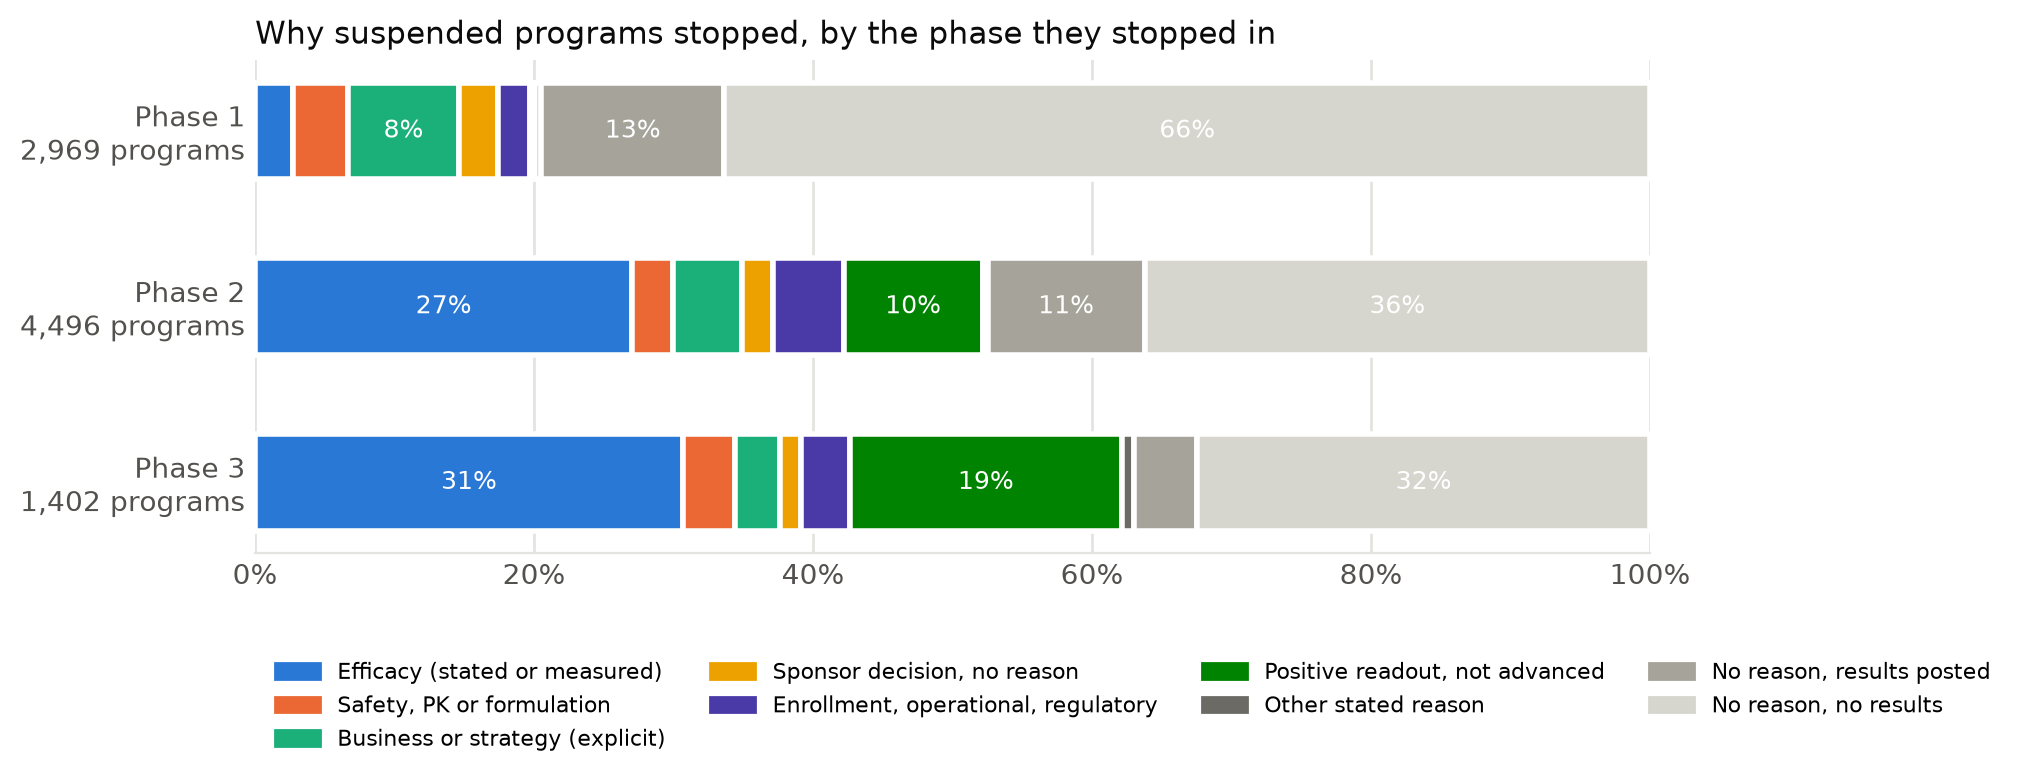
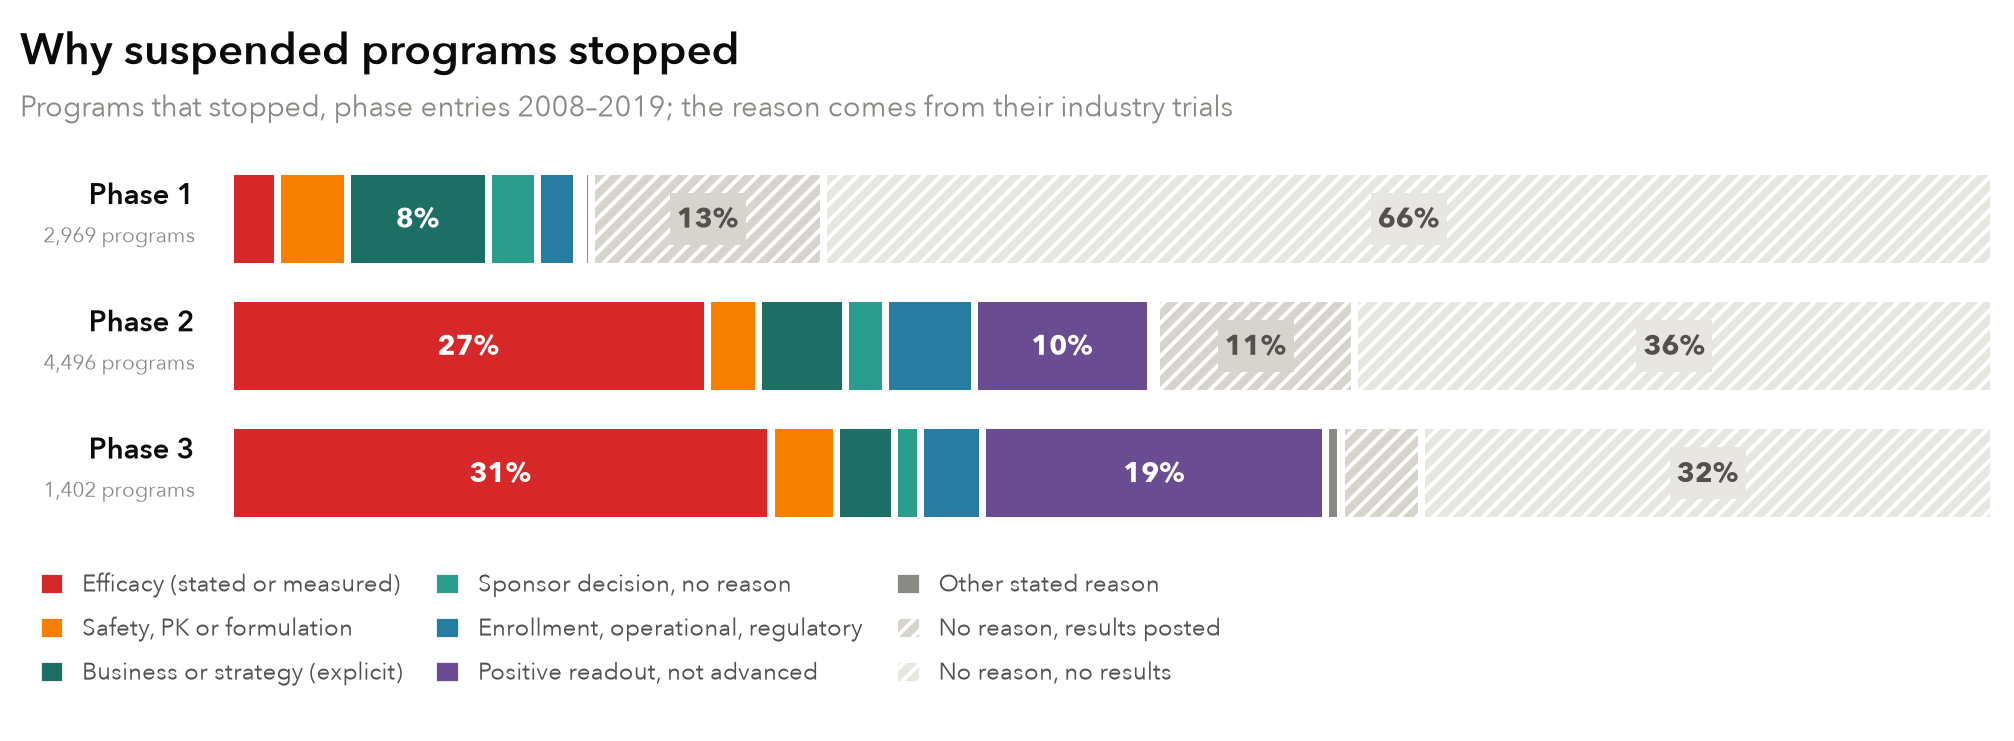
Restyle the suspended-programs figure to match the efficacy-attribution figure
Title drops "by the phase they stopped in"; bold title and subtitle, gapped
bars with phase and program-count labels, cause hues shared with the stop-cause
bar, and unstated reasons hatched.

diff --git a/report/figures.py b/report/figures.py
@@ -22,18 +22,13 @@ from report import bio, frame
 from report.render import S3_ENDPOINTS, S3_MAP_ROWS, band_label, s3_types, stratum_name
 from report.attribution import SUBCAUSE_LABELS
 from report.stop_causes import BREAKDOWN, SHOWN, SUBCAUSE_NAMES
+from report.windows import SECTION1
 
 OUT = os.path.join(frame.REPO, "report", "output")
 FIG = os.path.join(OUT, "figures")
 
 INK, INK2, MUTED = "#0b0b0b", "#52514e", "#8a8984"
 GRID, BAR, ACCENT = "#e4e3df", "#c3c2b7", "#2a78d6"
-FAMILY_COLORS = {  # reference categorical order; each family keeps its hue in every panel
-    "Efficacy (stated or measured)": "#2a78d6", "Safety, PK or formulation": "#eb6834",
-    "Business or strategy (explicit)": "#1baf7a", "Sponsor decision, no reason": "#eda100",
-    "Enrollment, operational, regulatory": "#4a3aa7", "Positive readout, not advanced": "#008300",
-    "Other stated reason": "#6b6a65", "No reason, results posted": "#a5a39a", "No reason, no results": "#d6d5ce",
-}
 REASON_FAMILY = {
     "efficacy: stated": "Efficacy (stated or measured)",
     "efficacy: primary endpoint not met": "Efficacy (stated or measured)",
@@ -63,31 +58,6 @@ def save(fig, name):
     for ext in ("png", "svg"):
         fig.savefig(os.path.join(FIG, f"{name}.{ext}"), dpi=200, bbox_inches="tight")
     plt.close(fig)
-
-
-def failure_modes():
-    progs = pd.read_csv(os.path.join(OUT, "section1", "failure_modes_programs.csv"))
-    progs["family"] = progs.reason.map(REASON_FAMILY)
-    tab = progs.pivot_table(index="phase", columns="family", values="program_id", aggfunc="count", fill_value=0)
-    share = tab.div(tab.sum(axis=1), axis=0)
-    fig, ax = plt.subplots(figsize=(9, 3.2))
-    for i, ph in enumerate(sorted(share.index, reverse=True)):
-        left = 0.0
-        for fam, color in FAMILY_COLORS.items():
-            w = share.at[ph, fam] if fam in share.columns else 0.0
-            ax.barh(i, w, left=left, height=0.55, color=color, edgecolor="white", linewidth=2)
-            if w >= 0.07:
-                ax.text(left + w / 2, i, f"{w:.0%}", ha="center", va="center", color="white", fontsize=9)
-            left += w
-    ax.set_yticks(range(len(share)), [f"Phase {ph}\n{int(tab.loc[ph].sum()):,} programs"
-                                     for ph in sorted(share.index, reverse=True)], color=INK)
-    ax.set_xlim(0, 1)
-    ax.xaxis.set_major_formatter(matplotlib.ticker.PercentFormatter(1.0))
-    style(ax)
-    ax.legend(handles=[matplotlib.patches.Patch(color=c, label=f) for f, c in FAMILY_COLORS.items()],
-              ncol=4, frameon=False, fontsize=8, loc="upper left", bbox_to_anchor=(0, -0.18))
-    ax.set_title("Why suspended programs stopped, by the phase they stopped in", loc="left", color=INK, fontsize=11)
-    save(fig, "failure_modes_by_phase")
 
 
 EFFICACY = "#d62828"
@@ -120,6 +90,51 @@ def stacked(ax, y, segments, height=0.62, gap=0.004):
                     color="white" if dark(color) else INK2,
                     bbox=dict(boxstyle="square,pad=0.25", fc=color, ec="none") if hatched else None)
         start += w
+
+
+FAMILY_COLORS = {  # stacking order; hues follow SHOWN_COLORS so a cause looks the same in every stop figure
+    "Efficacy (stated or measured)": EFFICACY, "Safety, PK or formulation": "#f77f00",
+    "Business or strategy (explicit)": "#1d6f66", "Sponsor decision, no reason": "#2a9d8f",
+    "Enrollment, operational, regulatory": "#277da1", "Positive readout, not advanced": "#6a4c93",
+    "Other stated reason": "#8a8984", "No reason, results posted": "#d6d4cc", "No reason, no results": "#e8e6e0",
+}
+UNSTATED = {"No reason, results posted", "No reason, no results"}
+
+
+def failure_modes():
+    """Why suspended programs stopped: one 100% bar per phase, unstated reasons hatched."""
+    progs = pd.read_csv(os.path.join(OUT, "section1", "failure_modes_programs.csv"))
+    progs["family"] = progs.reason.map(REASON_FAMILY)
+    tab = progs.pivot_table(index="phase", columns="family", values="program_id", aggfunc="count", fill_value=0)
+    share = tab.div(tab.sum(axis=1), axis=0)
+    years = f"{SECTION1[0].year}–{SECTION1[1].year}"
+
+    logging.getLogger("matplotlib.font_manager").setLevel(logging.ERROR)
+    rc = {"font.family": ["Avenir Next", "Helvetica Neue", "Helvetica", "Arial", "DejaVu Sans"], "font.size": 9,
+          "hatch.color": "white", "hatch.linewidth": 1.4}
+    with plt.rc_context(rc):
+        fig, ax = plt.subplots(figsize=(10.5, 3.75))
+        fig.subplots_adjust(left=0.13, right=0.97, top=0.78, bottom=0.03)
+        ax.set_xlim(0, 1)
+        ax.set_ylim(-1.75, 2.45)
+        ax.axis("off")
+        fig.text(0.03, 0.965, "Why suspended programs stopped", fontsize=16, fontweight="demibold", color=INK, va="top")
+        fig.text(0.03, 0.875, f"Programs that stopped, phase entries {years}; the reason comes from their industry trials",
+                 fontsize=10.5, color=MUTED, va="top")
+        for k, ph in enumerate(sorted(share.index)):
+            y = 2 - k * 0.95
+            stacked(ax, y, [(float(share.at[ph, f]) if f in share.columns else 0.0, col, f in UNSTATED)
+                            for f, col in FAMILY_COLORS.items()], height=0.66)
+            ax.text(-0.02, y + 0.03, f"Phase {ph}", ha="right", va="bottom", fontsize=10.5, color=INK,
+                    fontweight="demibold")
+            ax.text(-0.02, y - 0.02, f"{int(tab.loc[ph].sum()):,} programs", ha="right", va="top", fontsize=7.5,
+                    color=MUTED)
+        ax.legend(handles=[matplotlib.patches.Patch(facecolor=col, edgecolor="white",
+                                                    hatch="////" if f in UNSTATED else None, label=f)
+                           for f, col in FAMILY_COLORS.items()],
+                  frameon=False, fontsize=8.5, loc="upper left", handlelength=1.0, handleheight=1.0,
+                  columnspacing=1.4, labelspacing=0.5, labelcolor=INK2, ncol=3, bbox_to_anchor=(-0.12, 0.31))
+        save(fig, "failure_modes_by_phase")
 
 
 def efficacy_attribution():

diff --git a/REPORT.md b/REPORT.md
@@ -121,7 +121,7 @@ Each suspended program takes one reason from the industry trials of the phase it
 | sponsor decision, unspecified | 3% (83) | 2% (101) | 1% (21) |
 | stopped, no reason stated | 9% (280) | 9% (401) | 10% (135) |
 
-![Why suspended programs stopped, by phase](report/output/figures/failure_modes_by_phase.png)
+![Why suspended programs stopped](report/output/figures/failure_modes_by_phase.png)
 
 The registry rarely says why a program stopped. In Phase 1, 66% of stopped programs left neither a stated reason nor a result, which is expected: Phase 1 trials seldom post results and companies seldom explain pausing early assets. In Phase 2 and Phase 3 the share without a reason falls to 36% and 32%. Efficacy is the recorded reason for 27% of programs that stopped in Phase 2 and 31% of those that stopped in Phase 3: the sponsor said so, or the posted or published primary endpoint was missed. Safety accounts for 3% and 4%: among Phase 2 and Phase 3 stops with an efficacy or safety reason, safety is 9% and 11%, against about 32% in Harrison (2016), whose 2013–2015 failures with a disclosed reason were 24% safety and 52% efficacy. Either registry records under-report safety stops, or company disclosures over-represent them.
 

diff --git a/report/narrative/section1.md b/report/narrative/section1.md
@@ -27,7 +27,7 @@ Each suspended program takes one reason from the industry trials of the phase it
 
 {{FAILURE_TABLE}}
 
-![Why suspended programs stopped, by phase](report/output/figures/failure_modes_by_phase.png)
+![Why suspended programs stopped](report/output/figures/failure_modes_by_phase.png)
 
 {{SECTION1_FAILURES}}
 
